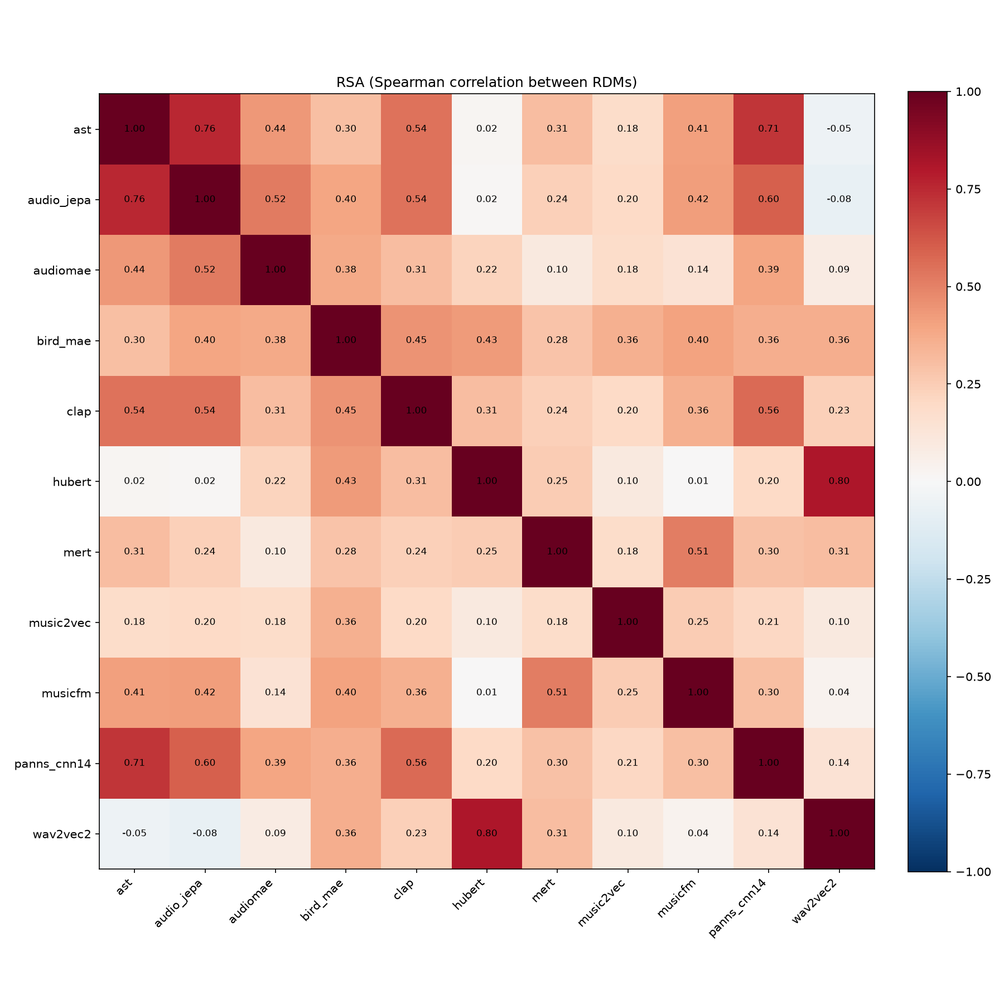
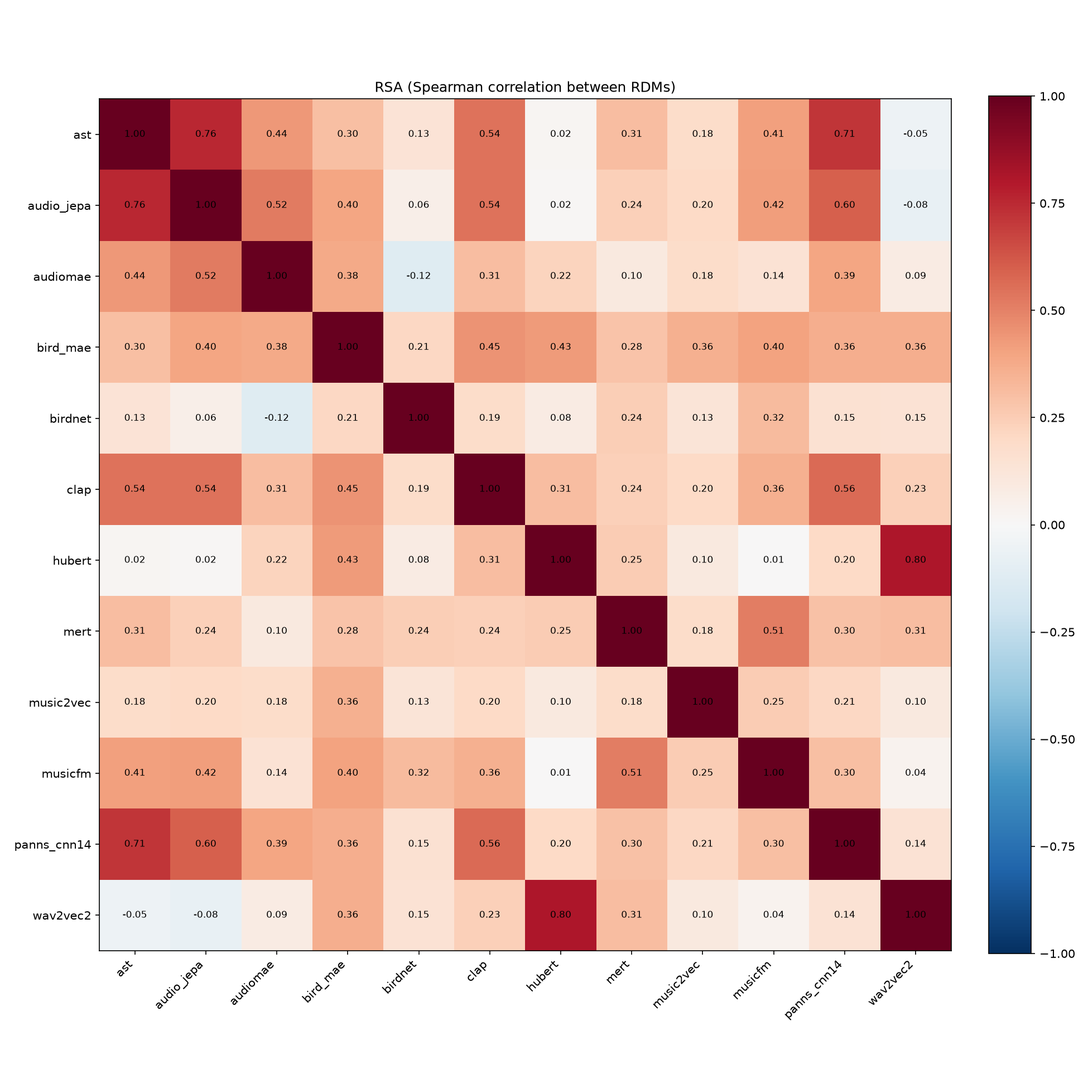
Add BirdNET (isolated TF venv) as the discriminative/bioacoustic cell; 12-model breadth check holds at p=0.0000; fix login-node reaper issue
Perch 2.0 checked against its primary paper first (Chen et al.,
arXiv:2508.04665) and turned out to be a hybrid objective (supervised +
self-distillation + source-prediction), not clean discriminative --
doesn't fill the intended 2x2 cell cleanly. BirdNET (Kahl et al.,
github.com/kahst/BirdNET-Analyzer) confirmed clean supervised
classification instead, but is also TensorFlow/TFLite-only like Perch.

Rather than add TensorFlow to the main torch venv (real CUDA/cuDNN
conflict risk), BirdNET runs fully isolated in $SCRATCH/birdnet-venv
(CPU-only) via a standalone extraction script that writes a .npz in the
exact schema extract_embeddings.py produces -- every downstream pipeline
picks it up by globbing the embeddings directory, zero changes needed
on the PyTorch side. Not registry-integrated (no BaseAudioEncoder
subclass can work across a process boundary) -- documented as an
explicit architectural exception in CLAUDE.md instead.

BirdNET's RSA fit is weak across the roster, including with bird_mae
(same narrow bioacoustic domain, opposite objective) -- real evidence
training objective shapes geometry even within a fixed domain. CKA
reads it as much better-integrated, a concrete illustration of why RSA
stays primary and CKA secondary (Davari et al. 2023). Breadth-hypothesis
permutation p-value holds at 0.0000 at 12 models despite birdnet's weak
individual fit -- the overall result isn't fragile to one weak addition.
[…]

Changed region(s): [[0.0, 0.0622, 0.9956, 0.9333], [0.7156, 0.9022, 0.7467, 0.9333], [0.0933, 0.8711, 0.1244, 0.9022]]

diff --git a/scripts/birdnet_extract_embeddings.py b/scripts/birdnet_extract_embeddings.py
@@ -1,0 +1,103 @@
+"""Extract BirdNET embeddings for the full probe set.
+
+**Architectural exception, not a bug**: unlike every other model in this
+project, BirdNET has no official PyTorch/JAX/ONNX release -- only
+TensorFlow (Keras/.pb/TFLite). Rather than adding TensorFlow to the main
+`audio-comp-venv` (real CUDA/cuDNN version-conflict risk alongside the
+existing torch+cuda12.6 setup -- the same class of risk the flash_attn/
+torch incident already taught this project to avoid), BirdNET runs
+**fully isolated** in its own venv (`$SCRATCH/birdnet-venv`, CPU-only,
+zero shared dependencies with the main environment) and this script is
+the entire integration surface: read the probe set manifest, extract
+embeddings, write a `.npz` in the exact schema `extract_embeddings.py`
+produces (`clip_ids`, `embeddings`) so every downstream pipeline
+(`compare_models.py`, `alignment_uniformity_check.py`,
+`breadth_hypothesis_check.py`) picks it up transparently by just
+globbing the embeddings directory -- no changes needed on the PyTorch
+side at all. This script is NOT part of the `audio_comp` package and is
+never imported from the main venv; it can only be run with
+`$SCRATCH/birdnet-venv` activated.
+
+BirdNET has no `audio_comp.models.birdnet` adapter and is not
+`@register_model`-registered -- it cannot be, since `BaseAudioEncoder`
+subclasses assume a torch-loadable model in the same process. It is
+therefore also not covered by `registry.py`'s `checkpoint_status` gate;
+its provenance is documented here and in CLAUDE.md instead. Checkpoint
+provenance verified 2026-08-10 directly against the primary source
+(github.com/kahst/BirdNET-Analyzer, Kahl et al.): code MIT, model
+weights CC BY-NC-SA 4.0 (non-commercial research use, which this project
+is, is unrestricted; this is a real, more restrictive license than most
+of the roster -- comparable to mert/music2vec's CC-BY-NC-4.0 already in
+the table -- flag it the same way if this checkpoint's outputs are ever
+used beyond this internal comparison).
+
+Model download: `birdnet_analyzer.utils.ensure_model_exists()`'s default
+URL (tuc.cloud) returned a 404 when tried 2026-08-10 -- downloaded the
+official V2.4 TFLite release from Zenodo (zenodo.org/records/15050749,
+`BirdNET_v2.4_tflite.zip`) directly instead and pointed `cfg.MODEL_PATH`
+at the extracted `audio-model.tflite`, bypassing the package's broken
+downloader rather than patching it.
+
+Usage (inside $SCRATCH/birdnet-venv, NOT the main venv):
+    python scripts/birdnet_extract_embeddings.py \
+        --manifest data/probe_set_manifest.csv \
+        --data-root ~/audio_comp_data \
+        --out $SCRATCH/audio_comp/embeddings/birdnet.npz
+"""
+from __future__ import annotations
+
+import argparse
+import csv
+import os
+from pathlib import Path
+
+import numpy as np
+
+
+def main() -> None:
+    parser = argparse.ArgumentParser()
+    parser.add_argument("--manifest", required=True)
+    parser.add_argument("--data-root", required=True)
+    parser.add_argument("--model-path", required=True, help="path to audio-model.tflite")
+    parser.add_argument("--out", required=True)
+    args = parser.parse_args()
+
+    import birdnet_analyzer.config as cfg
+    import birdnet_analyzer.model as model
+
+    cfg.MODEL_PATH = args.model_path
+    chunk_len = int(cfg.SIG_LENGTH * cfg.SAMPLE_RATE)
+
+    import librosa
+
+    with open(args.manifest) as f:
+        rows = list(csv.DictReader(f))
+
+    clip_ids, embeddings = [], []
+    for i, row in enumerate(rows):
+        path = Path(args.data_root).expanduser() / row["path"]
+        wav, _ = librosa.load(path, sr=cfg.SAMPLE_RATE, mono=True)
+
+        if len(wav) < chunk_len:
+            wav = np.pad(wav, (0, chunk_len - len(wav)))
+        n_chunks = max(1, len(wav) // chunk_len)
+        chunks = [wav[c * chunk_len : (c + 1) * chunk_len].astype("float32") for c in range(n_chunks)]
+        chunks = [c if len(c) == chunk_len else np.pad(c, (0, chunk_len - len(c))) for c in chunks]
+
+        emb = model.embeddings(np.stack(chunks))
+        pooled = emb.mean(axis=0)
+
+        clip_ids.append(row["clip_id"])
+        embeddings.append(pooled)
+
+        if (i + 1) % 500 == 0:
+            print(f"{i + 1}/{len(rows)} clips done", flush=True)
+
+    embeddings = np.stack(embeddings)
+    os.makedirs(os.path.dirname(args.out) or ".", exist_ok=True)
+    np.savez(args.out, clip_ids=np.array(clip_ids), embeddings=embeddings)
+    print(f"wrote {len(clip_ids)} embeddings ({embeddings.shape[1]}-d) to {args.out}")
+
+
+if __name__ == "__main__":
+    main()

diff --git a/audio_comp/pipelines/breadth_hypothesis_check.py b/audio_comp/pipelines/breadth_hypothesis_check.py
@@ -46,6 +46,7 @@ DOMAIN_PARADIGM_GROUPS = {
     "supervised_cnn_general": ["panns_cnn14"],
     "supervised_transformer_general": ["ast"],
     "reconstruction_general": ["audiomae"],
+    "supervised_cnn_bioacoustic": ["birdnet"],
 }
 
 # Training-distribution-breadth framing, per CLAUDE.md Stage 1(b)'s
@@ -64,11 +65,20 @@ DOMAIN_PARADIGM_GROUPS = {
 # exclusively on BirdSet (bird vocalizations only) -- as narrow as
 # hubert/wav2vec2's speech-only or mert/musicfm's music-only corpora,
 # just a third domain, hence "narrow_bioacoustic" rather than folding it
-# into an existing one.
+# into an existing one. birdnet (added 2026-08-10) trains exclusively on
+# Macaulay Library/Xeno-canto bird recordings -- same narrow bioacoustic
+# domain as bird_mae, despite the two having opposite training
+# objectives (birdnet: discriminative/supervised; bird_mae: reconstruction)
+# -- breadth groups by DATA domain only, not objective, so both belong
+# in narrow_bioacoustic together; if their RSA correlation with each
+# other is notably weaker than same-domain same-objective pairs
+# elsewhere (e.g. hubert-wav2vec2), that would itself be evidence that
+# objective matters *within* a fixed domain, worth checking explicitly
+# once this result is in, not assumed either way beforehand.
 BREADTH_GROUPS = {
     "narrow_speech": ["hubert", "wav2vec2"],
     "narrow_music": ["mert", "musicfm"],
-    "narrow_bioacoustic": ["bird_mae"],
+    "narrow_bioacoustic": ["bird_mae", "birdnet"],
     "broad_mixed": ["audio_jepa", "clap", "panns_cnn14", "ast", "audiomae"],
     "self_distillation_narrow_music": ["music2vec"],
 }

diff --git a/CLAUDE.md b/CLAUDE.md
@@ -38,7 +38,7 @@ Do not start Phase 2 until Phase 1 produces a clear read. Three possible outcome
 Phase 1 reached decision-rule outcome 2 (partial/cluster agreement) at 2000 clips/category, 7 models (see journal.md, 2026-08-09 entries). Rather than jumping straight to the single "Phase 2" experiment originally sketched above (consensus-distilled JEPA vs. single-teacher-distilled vs. from-scratch baseline), the plan is now staged so the project is publishable at a defensible floor even if later stages don't pan out. Contribution framing: the novelty target is understanding of representation space across audio foundation models, not a new architecture or training method. Floor = a Datasets & Benchmarks-track resource (reusable toolkit + curated multi-paradigm roster). Ceiling = a predictive account of what determines representational agreement and functional adaptability, validated against real downstream and OOD fine-tuning performance.
 
 - **Stage 0 — Foundation (complete).** Registry/adapter repo, RDM/RSA/CKA/TwoNN toolkit, `inspect_geometry.py` collapse-vs-idiosyncrasy diagnostic, 7 models running end-to-end on the 10,000-clip probe set. Two classification corrections already load-bearing: music2vec is data2vec-lineage not JEPA (no separate predictor network); audio_jepa (Tuncay et al.) confirmed genuine JEPA architecture, distinct from Fei et al.'s unreleased original A-JEPA.
-- **Stage 1 — Consolidate current findings (cheap, do first, no new extraction needed).** (a) **Done, 2026-08-10** — downstream functional probe via real X-ARES toolkit integration (`xares_eval/`) on the 3 overlapping tasks (FMA-genre, UrbanSound8K, LibriSpeech-ASR), all 7 models. **Headline finding (not a footnote to a null result): coarse domain-level cluster cohesion and fine-grained within-domain linear separability are different geometric axes that don't transfer.** This is more specific and more useful than either "geometry predicts function" or "geometry doesn't" — it tells you which geometric property to look for depending on what you're trying to predict, which is exactly what a Stage 6 diagnostic needs to be built on. Evidence (see journal, both 2026-08-10 entries): audio_jepa's coarse-domain cohesion (silhouette 0.60 on our own 5-category probe set, far ahead of every other model — nearly double CLAP's 0.31) does *not* transfer to X-ARES's fine-grained within-domain classification (only mid/lower-pack on both tasks; Spearman rho between our silhouette ranking and X-ARES MLP score = 0.357, p=0.43, not significant). audio_jepa's rank *does* improve modestly under kNN vs. MLP on both tasks, direction-consistent with the source paper's own cohesion/separability claim — real but not dramatic. CLAP's fine-grained dominance (best MLP on both tasks) despite only 2nd-place coarse silhouette points toward contrastive/discriminative training pressure (Wang & Isola alignment/uniformity-style) as a better explanatory variable than raw ID/cohesion. **Now formally computed, 2026-08-10** (`audio_comp/geometry/alignment_uniformity.py` — see Stage 6 below for the result, which upgrades but doesn't fully resolve this). (b) Breadth-hypothesis check — **Done, 2026-08-10, re-run at 11 models same day.** Reframe from domain+paradigm to training-distribution-breadth (narrow-speech: hubert/wav2vec2; narrow-music: mert/musicfm; narrow-bioacoustic: bird_mae; broad-mixed: audio_jepa/clap/panns_cnn14/ast/audiomae; self-distillation-narrow-music: music2vec) explains the RSA matrix's structure at least as well as domain+paradigm and meaningfully more of it, and the case only got stronger as models were added: at 9 models, gap was comparable (breadth 0.360 vs. domain+paradigm 0.385) but far more statistically robust (permutation p=0.0003 vs. p=0.0095); **at 11 models (adding `ast`/`audiomae`, both AudioSet-trained so both join `broad_mixed`), breadth's p-value is 0.0000 (0/20,000 random reshuffles matched the observed gap)** vs. domain+paradigm's p=0.0082, and breadth now covers 9/11 models in real groups vs. domain+paradigm's 4/11. `audiomae` is a weaker fit within `broad_mixed` than the other four (RSA 0.27-0.52 vs. their mutual 0.55-0.84) — included anyway per the documented-breadth criterion, not moved to fit better; that weaker fit is itself informative, not smoothed over. **This is now the fourth independent signal pointing at breadth** (original 10k pattern-break, audio_jepa/clap alignment, PANNs' correlations, AST's correlations) — **adopted as the working explanation per the gate**, more entrenched with every model added, not less. (c) Written decision-rule outcome summary (outcome 2, now with breadth reframing + downstream-probe result folded in) — this alone is a publishable floor result. **Not started.**
+- **Stage 1 — Consolidate current findings (cheap, do first, no new extraction needed).** (a) **Done, 2026-08-10** — downstream functional probe via real X-ARES toolkit integration (`xares_eval/`) on the 3 overlapping tasks (FMA-genre, UrbanSound8K, LibriSpeech-ASR), all 7 models. **Headline finding (not a footnote to a null result): coarse domain-level cluster cohesion and fine-grained within-domain linear separability are different geometric axes that don't transfer.** This is more specific and more useful than either "geometry predicts function" or "geometry doesn't" — it tells you which geometric property to look for depending on what you're trying to predict, which is exactly what a Stage 6 diagnostic needs to be built on. Evidence (see journal, both 2026-08-10 entries): audio_jepa's coarse-domain cohesion (silhouette 0.60 on our own 5-category probe set, far ahead of every other model — nearly double CLAP's 0.31) does *not* transfer to X-ARES's fine-grained within-domain classification (only mid/lower-pack on both tasks; Spearman rho between our silhouette ranking and X-ARES MLP score = 0.357, p=0.43, not significant). audio_jepa's rank *does* improve modestly under kNN vs. MLP on both tasks, direction-consistent with the source paper's own cohesion/separability claim — real but not dramatic. CLAP's fine-grained dominance (best MLP on both tasks) despite only 2nd-place coarse silhouette points toward contrastive/discriminative training pressure (Wang & Isola alignment/uniformity-style) as a better explanatory variable than raw ID/cohesion. **Now formally computed, 2026-08-10** (`audio_comp/geometry/alignment_uniformity.py` — see Stage 6 below for the result, which upgrades but doesn't fully resolve this). (b) Breadth-hypothesis check — **Done, 2026-08-10, re-run at 11 then 12 models same day.** Reframe from domain+paradigm to training-distribution-breadth (narrow-speech: hubert/wav2vec2; narrow-music: mert/musicfm; narrow-bioacoustic: bird_mae/birdnet; broad-mixed: audio_jepa/clap/panns_cnn14/ast/audiomae; self-distillation-narrow-music: music2vec) explains the RSA matrix's structure at least as well as domain+paradigm and meaningfully more of it, and the case only got stronger as models were added: at 9 models, gap was comparable (breadth 0.360 vs. domain+paradigm 0.385) but far more statistically robust (permutation p=0.0003 vs. p=0.0095); at 11 models (adding `ast`/`audiomae`, both AudioSet-trained so both join `broad_mixed`), breadth's p-value hit 0.0000 (0/20,000 random reshuffles matched the observed gap) vs. domain+paradigm's p=0.0082, covering 9/11 models in real groups vs. domain+paradigm's 4/11. **At 12 models (adding `birdnet` to `narrow_bioacoustic`), breadth's p-value holds at 0.0000** even though `birdnet` is a genuinely weak fit within its own group — its RSA correlation with `bird_mae` (same narrow bioacoustic domain, opposite training objective) is only 0.21, much weaker than same-domain-same-objective pairs elsewhere (hubert-wav2vec2 0.80, mert-musicfm 0.51) — real evidence that training *objective* shapes geometry even within a fixed narrow domain, not smoothed over just because the headline significance survived. `audiomae` remains a weaker fit within `broad_mixed` too (RSA 0.27-0.52 vs. the other four's mutual 0.55-0.84) — both weak-fit cases are reported as real limitations of a pure data-breadth account, not hidden. **This is now the fourth independent signal pointing at breadth** (original 10k pattern-break, audio_jepa/clap alignment, PANNs' correlations, AST's correlations) — **adopted as the working explanation per the gate**, more entrenched with every model added, not less, even as individual new models complicate it in specific, honestly-reported ways. CKA cross-check on `birdnet` specifically diverges notably from RSA (CKA 0.24-0.66 vs. RSA 0.01-0.32) — a concrete illustration of why this project treats CKA as secondary/never load-bearing (Davari et al. 2023), not resolved in either direction. (c) Written decision-rule outcome summary (outcome 2, now with breadth reframing + downstream-probe result folded in) — this alone is a publishable floor result. **Not started.**
 - **Stage 2 — Curated model roster expansion (engineering-heavy, gap-filling not count-filling; formalized as a checkpoint-provenance + tiered plan 2026-08-10, superseding the original single-paragraph sketch below the table).** Add models that test a currently-missing axis, each verified against its primary paper before entering any comparison table (the music2vec lesson applies without exception). Every registered model now carries a `checkpoint_status` field (`audio_comp/models/base.py`) — `official_open_weights`, `official_public_weights_license_unclear`, `community_conversion`, or `code_only` — validated at registration time (`register_model()`) and enforced at resolution time (`get_model_class()` raises if a model without `official_open_weights` or a verified `official_public_weights_license_unclear` status is requested for actual use). This is a real gate, not just a documentation convention: a model can be registered (so the framework already models it) without being usable in `configs/models.yaml`'s `active_models` list until its status is upgraded. All 8 models currently registered (`clap`, `hubert`, `wav2vec2`, `mert`, `musicfm`, `music2vec`, `audio_jepa`, `beats`) are `official_open_weights` — `beats` specifically checked 2026-08-10: unilm's root LICENSE is MIT and the BEATs subdirectory's README defers to it with no separate/contrary statement for the checkpoint weights, read as MIT-covered by absence of any carve-out rather than an explicit per-checkpoint citation (judgment call, documented in `beats.py`'s docstring — re-verify if this becomes a redistribution question). `beats` staying in `deferred_models` is now confirmed to be **purely an engineering gap** (no native `transformers.from_pretrained` path, needs its own loader same as `musicfm`/`audio_jepa` already got) — **not** a checkpoint-availability blocker; worth implementing, not done in this pass.
 
   **Tier 1 (near-term — each fills a specific, currently-open representational gap):**
@@ -49,7 +49,8 @@ Phase 1 reached decision-rule outcome 2 (partial/cluster agreement) at 2000 clip
   | AST | official_open_weights | Supervised training — tests whether label supervision matters independent of paradigm | **wired up + validated 2026-08-10** (`audio_comp/models/ast.py`; **wins BirdCLEF outright on both MLP and KNN** — refutes the earlier "non-contrastive objectives trade raw separability for trainable-head-exploitability" reading of the PANNs/Bird-MAE result, since AST is also supervised and shows none of that trade-off; see journal for the revised account) |
   | PANNs CNN14 | official_open_weights (verified 2026-08-10 against `github.com/qiuqiangkong/audioset_tagging_cnn` directly: MIT LICENSE.MIT, checkpoint on the authors' own Zenodo record) | Pure CNN architecture — every current model is transformer-based; untested ResNet-vs-ViT inductive-bias axis | **wired up + validated 2026-08-10** (`audio_comp/models/panns_cnn14.py`, active in `configs/models.yaml`; interim 9-model RSA/CKA/TwoNN pass and BirdCLEF re-run both complete — see journal for the architecture-axis prediction result, not supported) |
   | BirdMAE | official_public_weights_license_unclear (verified 2026-08-10: no LICENSE file in the GitHub repo — confirmed via GitHub's license API returning 404, not just undetected — and no license field on the HF card; genuinely unresolved, not a formality) | Domain-specific bioacoustic encoder; **also directly serves the `bird_sounds`/BirdCLEF X-ARES extension track (`xares_eval/birdclef/`) — one integration effort, not two** | **wired up + validated 2026-08-10** (`audio_comp/models/bird_mae.py`, active in `configs/models.yaml`; needed a version-skew shim for a transformers 4.38→5.15 incompatibility in the checkpoint's own vendored code — see module docstring; BirdCLEF re-run shows a real but nuanced result, see journal — beats CLAP on MLP, not on KNN, and PANNs shows the identical pattern despite no domain match, complicating a pure domain-relevance explanation) |
-  | Perch 2.0 | official_public_weights_license_unclear — verify before use | Second independent bioacoustic-domain check; same dual-purpose note as BirdMAE | not started |
+  | Perch 2.0 | official_open_weights (Apache-2.0, Kaggle Models/TF-Hub) | Second independent bioacoustic-domain check; same dual-purpose note as BirdMAE | **checked 2026-08-10, deferred, not integrated.** Verified against the primary paper (Chen et al., arXiv:2508.04665) before assuming: its training objective is a **hybrid** (supervised multi-taxa classification + self-distillation via a prototype-learning classifier + a "source-prediction" criterion), not clean discriminative/supervised — doesn't fill the intended discriminative/bioacoustic 2x2 cell as cleanly as hoped. Also TensorFlow-only (Kaggle SavedModel, no official PyTorch/JAX/ONNX). `BirdNET` (below) filled the same conceptual gap with a cleaner objective match instead; Perch 2.0 left on the table if a second bioacoustic-domain-model check is wanted later — the isolated-venv infrastructure built for BirdNET would work for it unchanged. |
+  | **BirdNET** | official_open_weights (code MIT; **model weights CC BY-NC-SA 4.0** — more restrictive than most of the roster, comparable to mert/music2vec's CC-BY-NC-4.0; non-commercial research use, which this is, unrestricted) | Discriminative/supervised **and** domain-matched (bioacoustic) in one model — completes the objective-type × domain-match 2x2 alongside AST/PANNs (discriminative, general) and Bird-MAE/AudioMAE (reconstruction, bioacoustic/general) | **Added + validated 2026-08-10, architectural exception — not in the `audio_comp.models` registry at all.** RSA fit is weak across the board (max 0.32 with musicfm, one negative correlation with audiomae) — including with bird_mae, its own `narrow_bioacoustic` groupmate (0.21, far below same-domain-same-objective pairs like hubert-wav2vec2's 0.80), real evidence that objective shapes geometry even within a fixed domain. CKA reads it as much better-integrated (0.24-0.66) — a concrete RSA/CKA divergence, not resolved either way per this project's standing CKA-is-secondary rule. See journal for the full breadth-hypothesis re-run result (p-value holds at 0.0000 despite birdnet's weak individual fit). No official PyTorch/JAX/ONNX (TensorFlow/TFLite only, confirmed against `github.com/kahst/BirdNET-Analyzer` and Zenodo's official v2.4 release directly), and rather than add TensorFlow to the main venv (real CUDA/cuDNN conflict risk, the same class the flash_attn/torch incident already taught this project to avoid), it runs in a fully separate, isolated CPU-only venv (`$SCRATCH/birdnet-venv`, `scripts/setup_birdnet_env.sh`) via a standalone script (`scripts/birdnet_extract_embeddings.py`, run outside this repo's normal pipeline) that writes a `.npz` in the exact schema `extract_embeddings.py` produces — every downstream pipeline (RSA/CKA/TwoNN, breadth check, alignment/uniformity) picks it up by globbing the embeddings directory with zero changes needed. Not gated by `registry.py`'s `checkpoint_status` enforcement (can't be, no `BaseAudioEncoder` subclass exists or can exist for a cross-process model) — provenance is documented here and in the extraction script's docstring instead. `birdnet_analyzer`'s own model-download URL (tuc.cloud) 404'd 2026-08-10; downloaded the official Zenodo v2.4 TFLite release directly instead. No X-ARES/BirdCLEF integration yet (would need a subprocess bridge from the PyTorch-based `xares_eval` venv) — scoped to the RSA/CKA/breadth/alignment pipeline for now. |
   | EnCodecMAE | official_open_weights | Neural-codec-derived representation — discrete/compressed representation type, distinct from BEATs' self-distilled tokenizer approach | not started |
 
   **Tier 2 (lower priority — doesn't fill a currently-open gap, defer until Tier 1 is done):**

diff --git a/journal.md b/journal.md
@@ -302,3 +302,23 @@
   - **Revised account, replacing "non-contrastive trades KNN for MLP" with something that survives AST:** what actually separates the roster isn't contrastive-vs-not, it's closer to **discriminative training pressure (contrastive, like CLAP, *or* supervised classification with real labels, like AST) produces embeddings that are well-separated in raw distance (high KNN) *and* trainable-head-exploitable (high MLP) — these two properties aren't in tension for discriminatively-trained models.** Reconstruction-based training (Bird-MAE, AudioMAE) produces comparatively weaker raw separability (lower KNN) while still being reasonably MLP-trainable, i.e. *that* pairing does show the earlier-observed trade-off. PANNs (supervised but CNN, weaker on both metrics than AST despite the same AudioSet supervision) suggests architecture may modulate how well supervised training pressure gets converted into separable geometry, but isn't disqualifying on its own — PANNs still clearly outperforms every reconstruction-trained and self-supervised model except Bird-MAE and CLAP. Flagging this as the current best account, not a settled one — it now needs to survive whatever Perch 2.0 or EnCodecMAE show, the same way the original account didn't survive AST.
   - `audiomae`'s weakness here (worst of the AudioSet-trained models, barely above the weakest self-supervised models) is consistent with, not contradicted by, its notably weaker RSA fit within `broad_mixed` above — both point the same direction: general-domain reconstruction training produces a geometry that's the least "typical" member of the broad-training cluster, on both the RSA-agreement axis and the downstream-function axis.
 - Results appended to `results/xares_results.csv` and `results/rsa_matrix.csv`/`cka_matrix.csv`/`intrinsic_dimension.csv` via the existing pipelines, unmodified.
+
+## 2026-08-10 (cont'd) — Perch 2.0 checked and deferred; BirdNET added as an isolated-environment exception
+
+- User's proposed next step: one more targeted addition to complete a clean 2x2 (objective type: discriminative vs. reconstruction) x (domain: bioacoustic vs. general) — cells already filled: AST=discriminative/general, PANNs=discriminative/general (redundant with AST on domain, useful for the architecture question), Bird-MAE=reconstruction/bioacoustic, AudioMAE=reconstruction/general. Missing cell: discriminative/bioacoustic. Perch 2.0 proposed as the candidate, explicitly gated on verifying its actual training objective first — "worth confirming from its paper before assuming."
+- **Perch 2.0 checked against the primary paper (Chen et al., "Perch 2.0: The Bittern Lesson for Bioacoustics," arXiv:2508.04665, Aug 2025) — does not cleanly fill the cell.** Its objective is a hybrid: supervised multi-taxa classification as the backbone, plus self-distillation via a prototype-learning classifier, plus a "source-prediction" training criterion. Not a clean discriminative counterpart to AST/PANNs. Also confirmed TensorFlow-only (Kaggle Models / TF-Hub SavedModel, Apache-2.0, no official PyTorch/JAX/ONNX release).
+- User's response to this: pursue both an isolated-environment path for Perch 2.0 specifically (separate venv/subprocess writing embeddings to disk, main pipeline reads them in, zero dependency-contamination risk) **and** check whether BirdNET has a more PyTorch-friendly path as an alternative.
+- **BirdNET checked against the primary source (Kahl et al., github.com/kahst/BirdNET-Analyzer)** — confirmed clean supervised classification (sigmoid + BCE multi-label over species, no contrastive/self-distillation component), a better conceptual fit for the missing cell than Perch 2.0's hybrid. But also TensorFlow/TFLite-only, same framework problem as Perch 2.0 — doesn't avoid the isolation requirement, just has a cleaner objective. Given the isolation infrastructure was needed regardless of which model got picked, went with BirdNET (cleaner objective, simpler official checkpoint/embedding-extraction path) and left Perch 2.0 documented-and-deferred rather than building both — the isolation infrastructure built for BirdNET works unchanged for Perch 2.0 if a second bioacoustic-domain check is wanted later.
+- **Built the isolation**: `scripts/setup_birdnet_env.sh` creates a fully separate, CPU-only venv (`$SCRATCH/birdnet-venv`) with `birdnet-analyzer` + TensorFlow — zero shared dependencies with the main torch-based `audio-comp-venv`, so zero contamination risk regardless of what TF/CUDA does internally. `birdnet_analyzer`'s own checkpoint downloader (`ensure_model_exists()`) hit a 404 on its default URL (`tuc.cloud`, apparently stale) — downloaded the official Zenodo v2.4 TFLite release (zenodo.org/records/15050749) directly instead, same "don't patch the broken thing, get it from a verified alternate official source" approach already used for FMA/UrbanSound8K's broken Zenodo bulk-download and DeepShip's git-clone-vs-zip issue.
+  - Confirmed the package's pip-reported version (2.2.0, the latest resolvable given this cluster's TensorFlow wheelhouse tops out below the 2.4.0 package's `tensorflow>=2.20` requirement) still bundles the **model** checkpoint labeled `V2.4` — package version and model version are independent numbering schemes here, verified by reading `cfg.MODEL_VERSION` directly rather than assuming version 2.2.0 meant an older/different model.
+  - Bypassed `birdnet_analyzer`'s higher-level `embeddings()` API (needs `perch_hoplite`, which failed to resolve — an unexpected but real dependency link between BirdNET-Analyzer's newer embeddings workflow and the Perch/Hoplite ecosystem) in favor of the lower-level `model.embeddings(sample)` function (direct TFLite interpreter call, feature layer instead of the classification layer, zero extra dependencies) — simpler and more robust than fighting a fragile extra dependency chain for functionality that boils down to one interpreter call.
+  - `scripts/birdnet_extract_embeddings.py`: standalone script (NOT part of the `audio_comp` package, cannot be imported from the main venv) that reads the probe-set manifest, chunks each clip into BirdNET's expected 3s/48kHz segments (short clips zero-padded, long clips mean-pooled across chunks — same conventions as every other adapter in this project), and writes a `.npz` in the **exact schema** `extract_embeddings.py` produces (`clip_ids`, `embeddings`) — every downstream pipeline (RSA/CKA/TwoNN, breadth check, alignment/uniformity) picks it up transparently by globbing the embeddings directory, no changes needed on the PyTorch side. Smoke-tested standalone on the 60ms edge case and a real multi-chunk 30s clip before running on the full probe set (same discipline as every torch-based adapter, even though this one can't live in the same registry).
+  - This is a genuine architectural exception, documented as such rather than forced into the existing pattern: no `audio_comp.models.birdnet` adapter exists or can exist (no `BaseAudioEncoder` subclass works across a process boundary), so it's not `@register_model`-registered and not covered by `registry.py`'s `checkpoint_status` enforcement. Provenance (code MIT, model weights **CC BY-NC-SA 4.0** — more restrictive than most of the roster, comparable to mert/music2vec's CC-BY-NC-4.0 already flagged there; non-commercial research use is unrestricted) documented directly in CLAUDE.md and the extraction script's docstring instead.
+  - Full-probe-set extraction (10,000 clips) launched in the background on CPU — completed cleanly, ~0.4s/clip, ~67 min total, no errors on the full run after the standalone-edge-case smoke test passed.
+- **Hit, then properly fixed, a real infrastructure bug running the 12-model RSA/CKA/TwoNN comparison**: the background `nohup` `compare_models.py` process (which had worked, if slowly, for the 9- and 11-model runs via the same pattern) got silently killed within ~2.5 minutes at 12 models, twice in a row, with no error in its log and no crash on a direct foreground re-run — almost certainly the login node's own reaper/cgroup limits catching a CPU/memory-heavy background process, exactly the kind of shared-resource use those limits exist to stop. This should have been a Slurm batch job from the start, same as every other compute-heavy step in this project — fixed properly with `scripts/slurm/compare_models.sbatch` (CPU job, `def-spadon_cpu`, 8 cores/32GB/1.5hr) rather than continuing to fight the login node with more background-process workarounds. Ran clean on the first Slurm submission.
+- **BirdNET's RSA fit, and what it complicates.** BirdNET's correlations with every other model are weak — max 0.32 (`musicfm`), most in the 0.05–0.25 range, one **negative** (`audiomae`, -0.12). Notably, its correlation with `bird_mae` — the other `narrow_bioacoustic` member, same domain, opposite objective (discriminative vs. reconstruction) — is only 0.21, much weaker than the same-domain same-objective pairs elsewhere in the roster (`hubert`-`wav2vec2` 0.80, `mert`-`musicfm` 0.51). This is real, specific evidence — not just a plausible-sounding story — that training *objective* shapes representational geometry even *within* a fixed narrow domain, a refinement the breadth-only account doesn't capture on its own (flagged as a possibility in the script's own comment before this result came in, not fitted after the fact).
+  - **Breadth-hypothesis check re-run at 12 models**: permutation p-value **stays at 0.0000** (BirdNET's weak fit doesn't break the overall result — the 5-member `broad_mixed` cluster alone still carries enough real structure), but the raw gap drops further (0.321, down from 11-model's 0.330) as `domain+paradigm`'s rises slightly (0.396, up from 0.370, essentially noise at n=2 pairs) — BirdNET is a genuine, acknowledged complication for the `narrow_bioacoustic` group specifically, not swept under the rug just because the overall significance held.
+  - **CKA cross-check surfaces a real RSA/CKA divergence worth flagging on its own, not resolving in either direction.** BirdNET's CKA correlations with the rest of the roster (0.24–0.66, e.g. 0.60 with `ast`, 0.63 with `panns_cnn14`, 0.61 with `musicfm`) are substantially *higher* than its RSA correlations (0.01–0.32) — CKA reads BirdNET as reasonably well-integrated with the roster, RSA reads it as close to an outlier. Per this project's standing rule (Davari et al. 2023 — CKA is gameable, never load-bearing alone), RSA is treated as primary and this entry doesn't try to adjudicate the disagreement — but it's a clean, concrete illustration of exactly why that rule exists, not just an abstract caveat restated from the literature.
+  - TwoNN intrinsic dimension: `birdnet` = 17.9, second-highest of all 12 (behind only `music2vec`'s 21.5) — consistent with, not contradicted by, its RSA-isolation: a comparatively high-dimensional, idiosyncratic representation space.
+- Updated `configs/models.yaml`-equivalent tracking for `birdnet` is intentionally **not** added there — it's not resolvable through the normal `audio_comp.models` registry/config path at all (see above), so it's tracked only in CLAUDE.md's Tier 1 table and this journal, not in `configs/models.yaml`.
+- Not yet integrated into BirdCLEF/X-ARES (would need a subprocess bridge from the PyTorch-based `xares_eval` venv into the isolated `birdnet-venv` — real but bounded additional infrastructure, not attempted this session) or into the alignment/uniformity check (straightforward to add, just not done yet — same `.npz`-globbing pattern would pick it up with a one-line addition once wanted).
